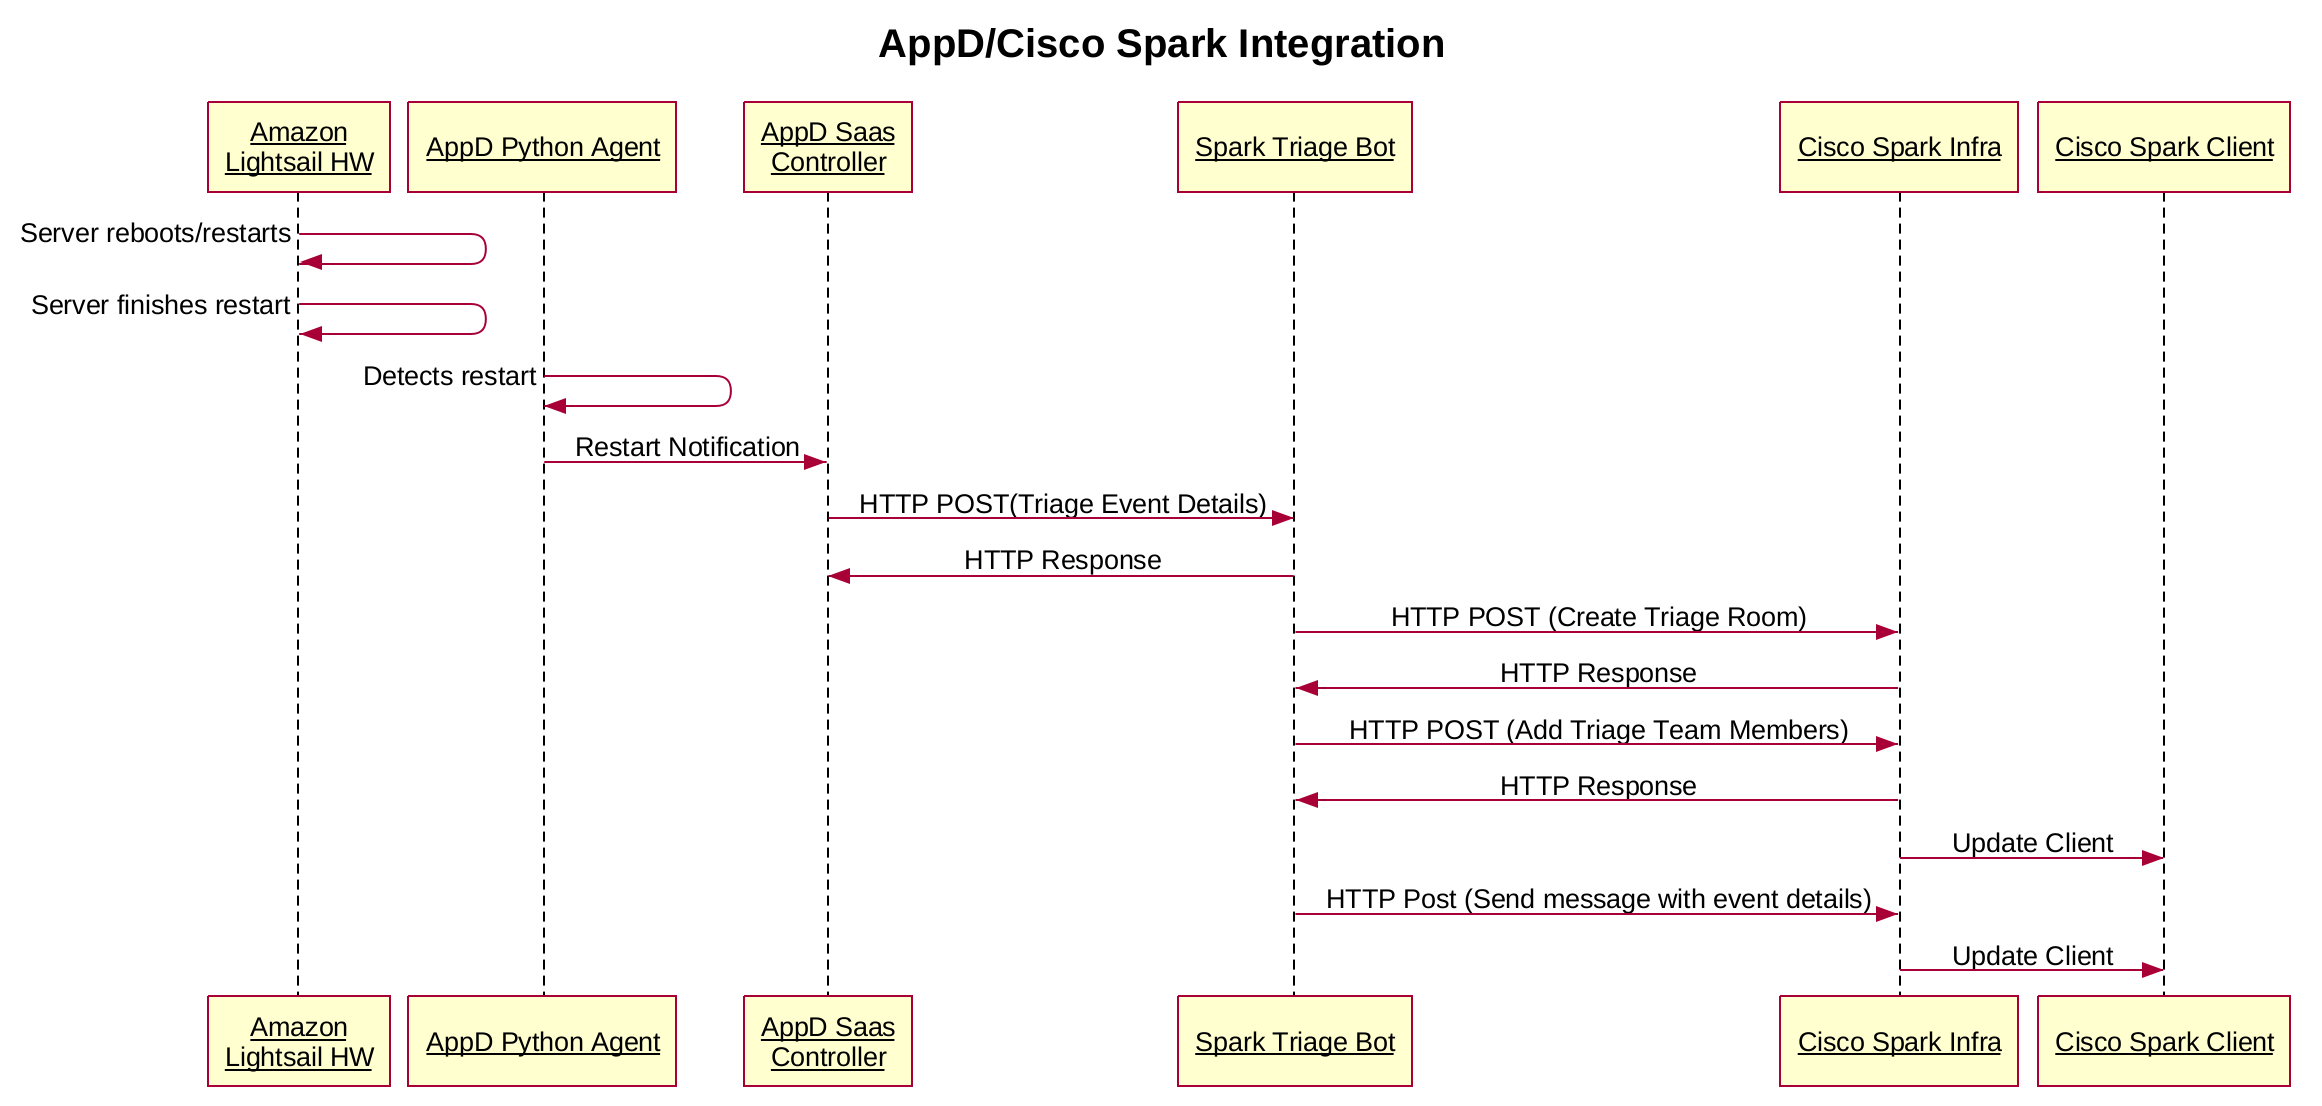
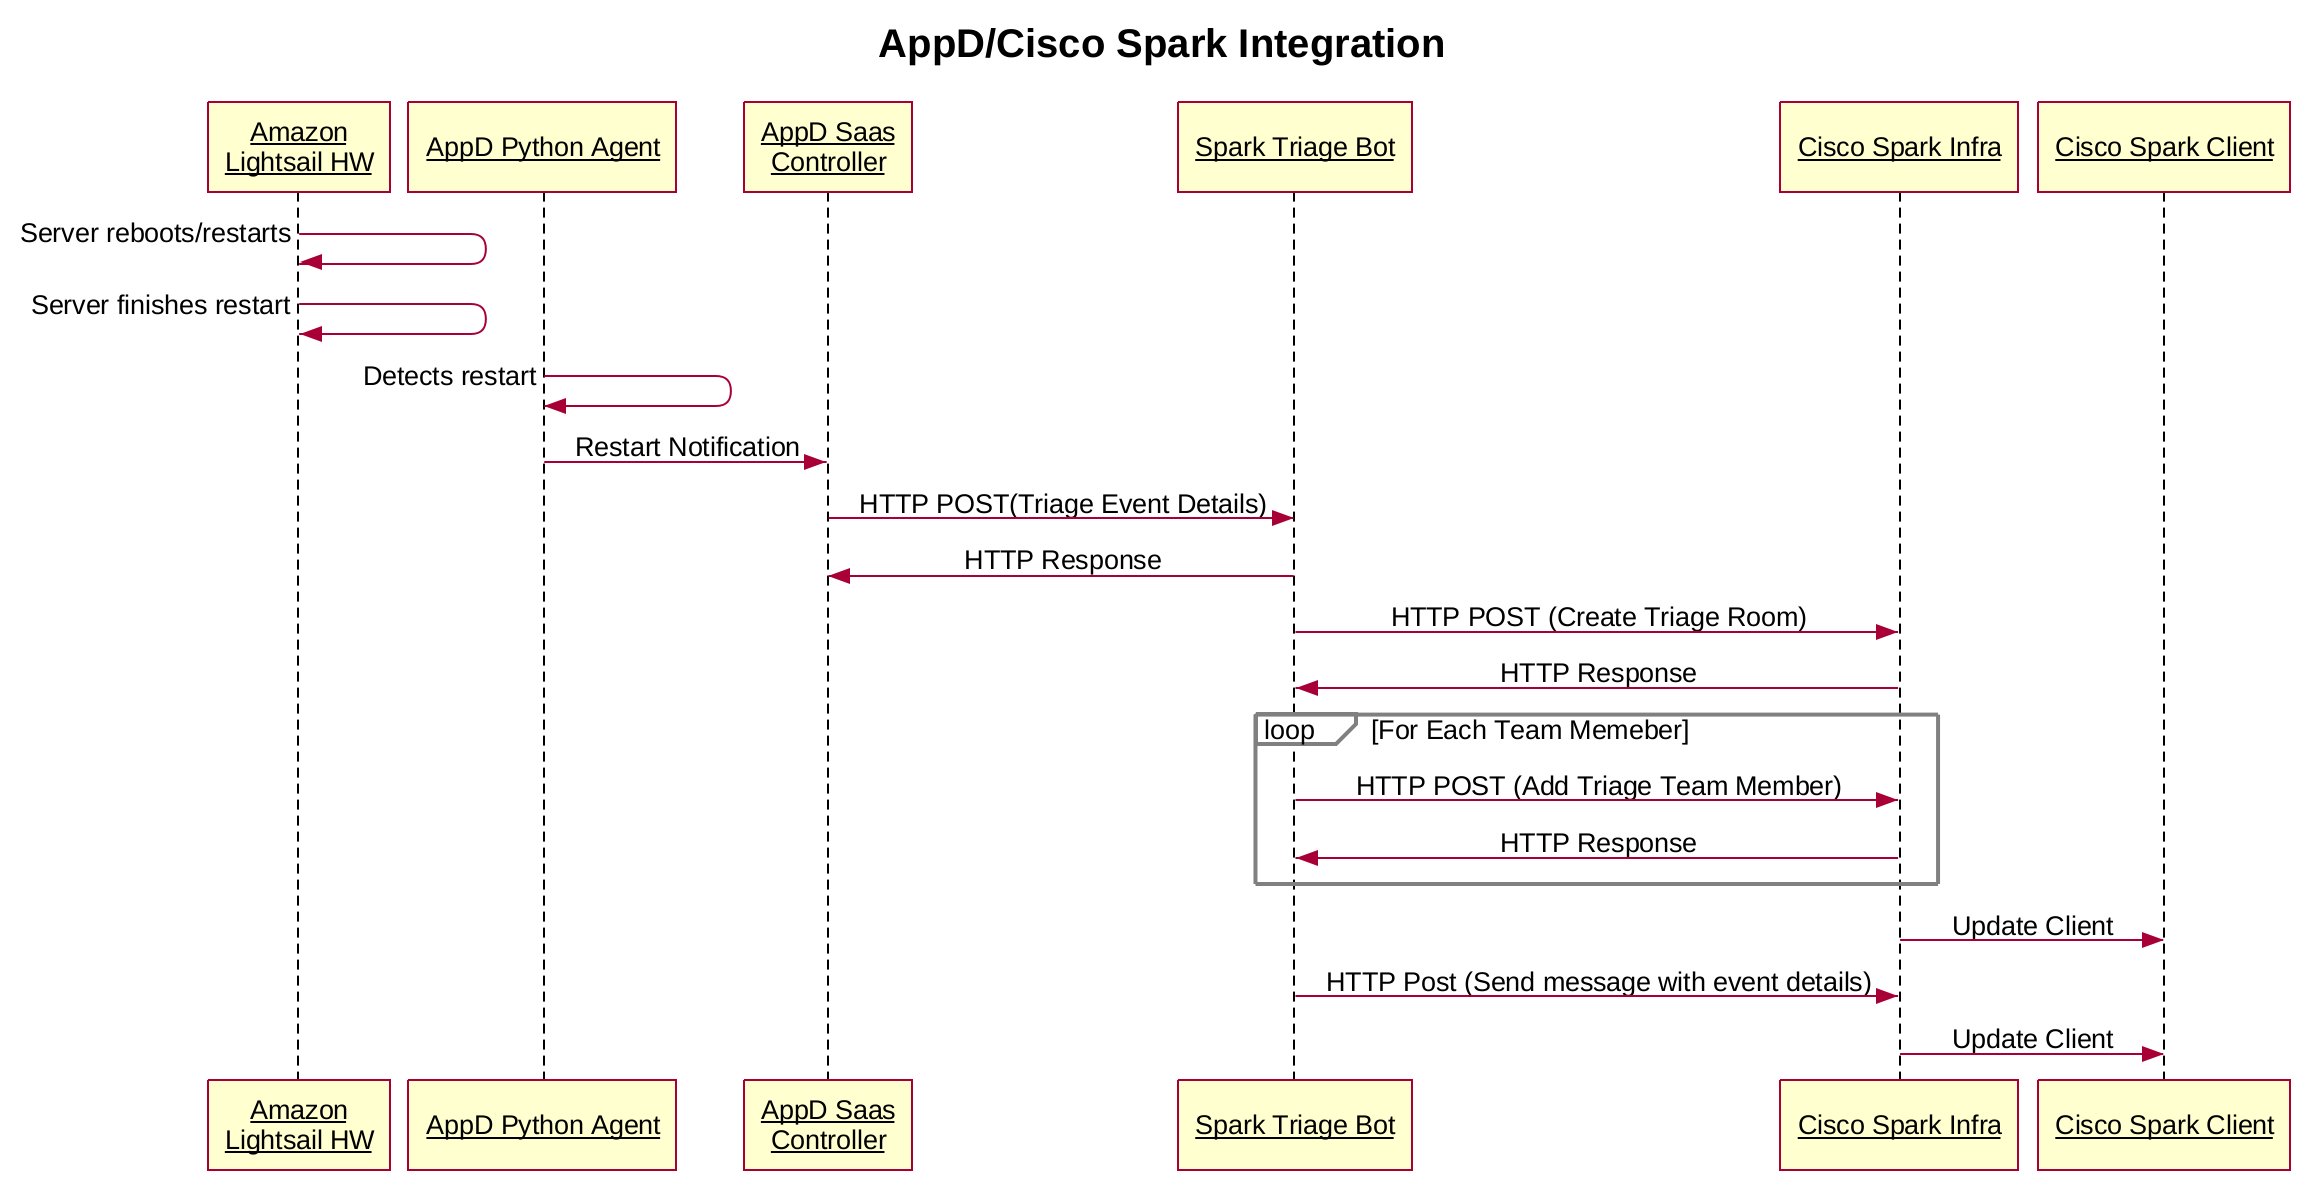
Updated ReadMe. Updated Call flow image to show that the spark room members are added in a loop.

diff --git a/README.md b/README.md
@@ -198,5 +198,7 @@ def build_triage_room(appd_request_json):
 
 ```
 
+To test it out, we need to trigger a restart of the server and generate traffic to the app that is being monitored.  Once AppD starts processing those business transations, it will fire the HTTP request to our triage bot.
+
 Here is a screenshot of the finished product!
 ![Spark Bot created triage room](docs/spark_screenshot.png)
